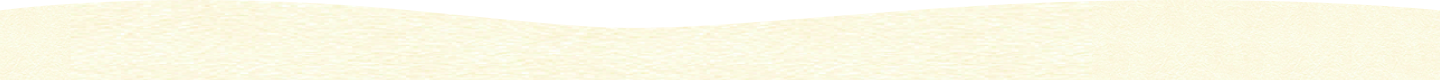
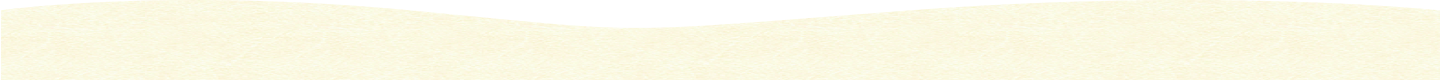
[調整常見醫療版面的top & bottom bar]

Changed region(s): [[0.375, 0.625, 0.4062, 0.65]]

diff --git a/components/insurance/pet-sick.js b/components/insurance/pet-sick.js
@@ -85,7 +85,7 @@ export default function PetSick() {
           // 電腦版
           <div
             className={`row ${styles.forDeskTop}`}
-            style={{ padding: '0 60px' }}
+            style={{ paddingRight: '60px', paddingLeft: '60px' }}
           >
             <div
               className="col-lg-4 d-flex align-items-center justify-content-end"
@@ -93,7 +93,7 @@ export default function PetSick() {
             >
               <div
                 className={`col-9 ${styles['stats-container']} text-center`}
-                style={{ padding: '1.25rem 3.125rem', width: '100%' }}
+                style={{ padding: '1.25rem 3.125rem', width: '70%' }}
               >
                 <h4 style={{ fontWeight: '700' }} className={styles.allFont}>
                   {displayedAccident.accidentType}
@@ -222,7 +222,7 @@ export default function PetSick() {
             <img
               className="w-100 h-100"
               loading="lazy"
-              src="/pi-pic/section2-bottom-bar2.png"
+              src="/pi-pic/section2-bottom-bar3.png"
               alt=""
             />
           </div>

diff --git a/components/insurance/insurance.module.css b/components/insurance/insurance.module.css
@@ -319,7 +319,7 @@
 }
 @media (max-width: 430px) {
   .barHight {
-    height: 1rem;
+    height: 40px;
   }
   .sick-expense{
     padding: 0.5rem 0;
